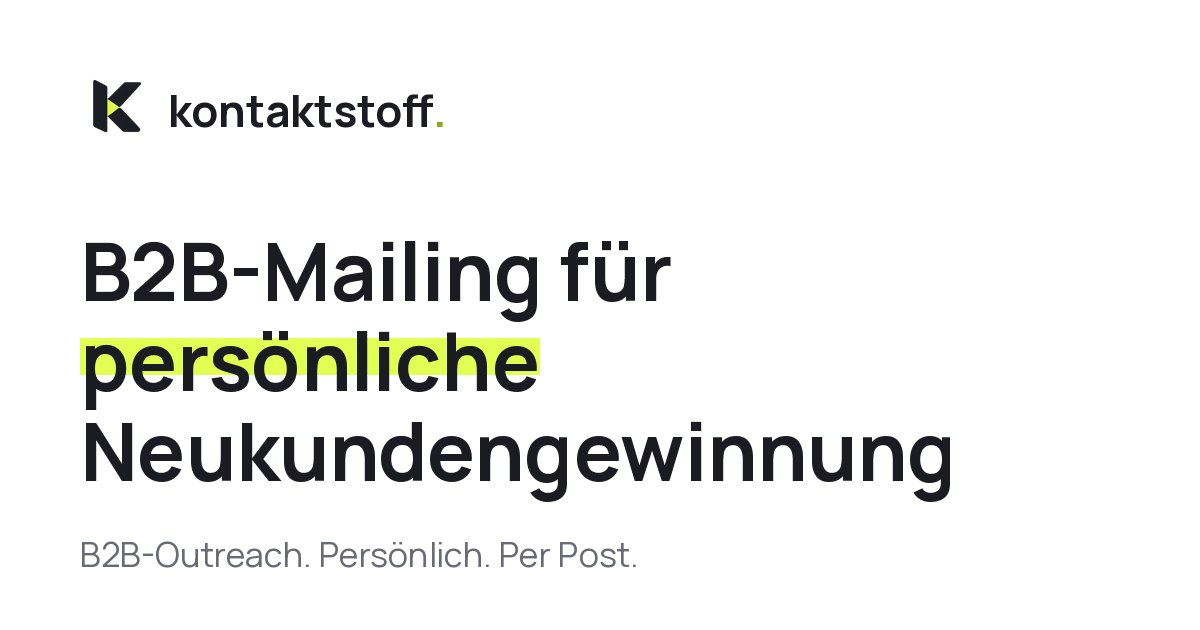
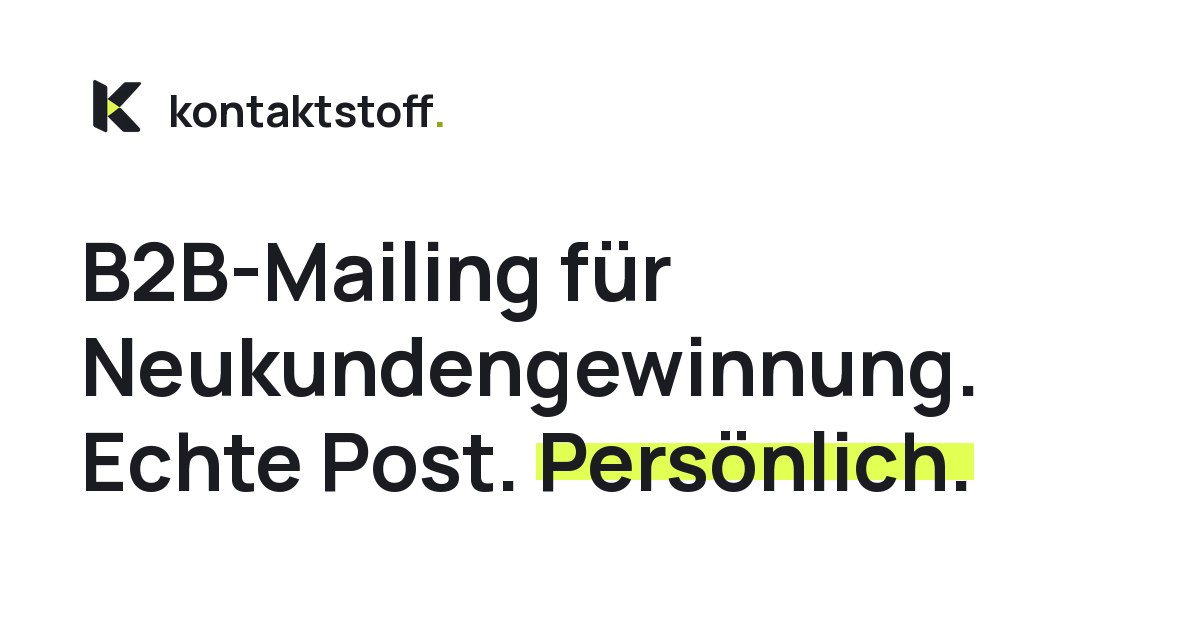
Hero-H1 dreizeilig: B2B-Mailing für / Neukundengewinnung. / Echte Post. Persönlich.
- H1 in drei Blockzeilen, "Persönlich." neongelb markiert
- Auf Mobilgeräten wird die H1 so skaliert, dass "Neukundengewinnung." ungetrennt in eine Zeile passt
- Social-Vorschaubild und Vorschau-Titel angepasst

Claude-Session: https://claude.ai/code/session_019yGR5dPRthh6YLbL3ibc2n

Changed region(s): [[0.0617, 0.5127, 0.8325, 0.8143], [0.0617, 0.8444, 0.5242, 0.9048]]

diff --git a/index.html b/index.html
@@ -10,11 +10,11 @@
 <meta content="Kontaktstoff" name="application-name"/>
 <meta content="website" property="og:type"/><meta content="Kontaktstoff" property="og:site_name"/><meta content="de_DE" property="og:locale"/>
 <meta content="https://www.kontaktstoff.com/" property="og:url"/>
-<meta content="B2B-Mailing für persönliche Neukundengewinnung | Kontaktstoff" property="og:title"/>
+<meta content="B2B-Mailing für Neukundengewinnung. Echte Post. Persönlich." property="og:title"/>
 <meta content="Personalisierter B2B-Erstkontakt per Post. Von der Wunschkundenliste bis zur messbaren Reaktion." property="og:description"/>
-<meta content="https://www.kontaktstoff.com/assets/og-image.jpg" property="og:image"/><meta content="1200" property="og:image:width"/><meta content="630" property="og:image:height"/><meta content="Kontaktstoff: B2B-Mailing für persönliche Neukundengewinnung" property="og:image:alt"/>
+<meta content="https://www.kontaktstoff.com/assets/og-image.jpg" property="og:image"/><meta content="1200" property="og:image:width"/><meta content="630" property="og:image:height"/><meta content="Kontaktstoff: B2B-Mailing für Neukundengewinnung. Echte Post. Persönlich." property="og:image:alt"/>
 <meta content="summary_large_image" name="twitter:card"/>
-<meta content="B2B-Mailing für persönliche Neukundengewinnung | Kontaktstoff" name="twitter:title"/>
+<meta content="B2B-Mailing für Neukundengewinnung. Echte Post. Persönlich." name="twitter:title"/>
 <meta content="Personalisierter B2B-Erstkontakt per Post. Von der Wunschkundenliste bis zur messbaren Reaktion." name="twitter:description"/>
 <meta content="https://www.kontaktstoff.com/assets/og-image.jpg" name="twitter:image"/>
 <link href="/favicon.ico" rel="icon" sizes="48x48"/><link href="/favicon.svg" rel="icon" type="image/svg+xml"/><link href="/apple-touch-icon.png" rel="apple-touch-icon"/><link href="/site.webmanifest" rel="manifest"/>
@@ -23,7 +23,7 @@
 </head>
 <body><a class="skip-link" href="#main">Zum Inhalt</a><div aria-hidden="true" class="scroll-progress"></div>
 <header class="site-header"><nav aria-label="Hauptnavigation" class="navigation container"><a aria-label="Kontaktstoff Startseite" class="wordmark" href="/"><img alt="" class="brand-mark" height="38" src="assets/logo-k-96.webp" width="38"/><span class="brand-type">kontaktstoff<span class="brand-dot">.</span></span></a><button aria-controls="nav-links" aria-expanded="false" class="menu-toggle">Menü <span aria-hidden="true">＋</span></button><div class="nav-links" id="nav-links"><a href="#plattform">Plattform</a><a href="#vorteil">Warum Post?</a><a href="#cases">Cases</a><a href="#preise">Preise</a></div><a class="button button-dark nav-cta" href="#planen">Kampagne planen <span aria-hidden="true">↗</span></a></nav></header>
-<main id="main"><section class="hero container"><h1>B2B-Mailing für <span class="highlight">persönliche</span> Neukunden&shy;gewinnung</h1><p class="hero-copy">Wir bringen deine B2B-Akquise als personalisierte Post direkt in die Unternehmen, die du gewinnen willst. Jeder Kontaktstoff führt mit QR-Code oder Kurzlink zum nächsten Schritt in deinem Vertrieb.</p><div aria-label="Ergebnisse der B2B Print-Mailing-Studie" class="hero-proof"><article><strong>935 %</strong><span>ROAS</span></article><article><strong>2,8 %</strong><span>Conversion Rate</span></article></div><div class="hero-actions"><a class="button button-lime" href="#planen">Meine Kampagne planen <span aria-hidden="true">↗</span></a><a class="button button-white" href="#plattform"><span aria-hidden="true" class="play-icon">▶</span> So funktioniert’s</a></div><p class="audience-line">Für Agenturen, Dienstleister, mittelständische Unternehmen und B2B-Vertriebsteams.</p></section><section class="contactstoff-definition"><div class="container definition-grid reveal"><div><p class="definition-label">Was ist Kontaktstoff?</p><h2>Der Brief, der deinen Erstkontakt macht.</h2><p>Persönlich adressiert. Hochwertig produziert. Direkt in das Unternehmen geschickt, das du gewinnen willst.</p></div><div aria-label="Ein persönlicher Brief mit dem Kontaktstoff K ist Kontaktstoff" class="definition-formula"><div class="definition-letter"><span aria-hidden="true" class="letter-icon">✉</span><img alt="" height="46" src="assets/logo-k-96.webp" width="46"/><small>persönlicher Brief</small></div><b aria-hidden="true">＝</b><strong>KONTAKTSTOFF</strong></div></div></section>
+<main id="main"><section class="hero container"><h1><span class="hero-line">B2B-Mailing für</span> <span class="hero-line">Neukundengewinnung.</span> <span class="hero-line">Echte Post. <span class="highlight">Persönlich.</span></span></h1><p class="hero-copy">Wir bringen deine B2B-Akquise als personalisierte Post direkt in die Unternehmen, die du gewinnen willst. Jeder Kontaktstoff führt mit QR-Code oder Kurzlink zum nächsten Schritt in deinem Vertrieb.</p><div aria-label="Ergebnisse der B2B Print-Mailing-Studie" class="hero-proof"><article><strong>935 %</strong><span>ROAS</span></article><article><strong>2,8 %</strong><span>Conversion Rate</span></article></div><div class="hero-actions"><a class="button button-lime" href="#planen">Meine Kampagne planen <span aria-hidden="true">↗</span></a><a class="button button-white" href="#plattform"><span aria-hidden="true" class="play-icon">▶</span> So funktioniert’s</a></div><p class="audience-line">Für Agenturen, Dienstleister, mittelständische Unternehmen und B2B-Vertriebsteams.</p></section><section class="contactstoff-definition"><div class="container definition-grid reveal"><div><p class="definition-label">Was ist Kontaktstoff?</p><h2>Der Brief, der deinen Erstkontakt macht.</h2><p>Persönlich adressiert. Hochwertig produziert. Direkt in das Unternehmen geschickt, das du gewinnen willst.</p></div><div aria-label="Ein persönlicher Brief mit dem Kontaktstoff K ist Kontaktstoff" class="definition-formula"><div class="definition-letter"><span aria-hidden="true" class="letter-icon">✉</span><img alt="" height="46" src="assets/logo-k-96.webp" width="46"/><small>persönlicher Brief</small></div><b aria-hidden="true">＝</b><strong>KONTAKTSTOFF</strong></div></div></section>
 <section class="section container benefit-section" id="vorteil"><div class="section-heading centered reveal"><h2>Deine E-Mail geht unter.<br/>Dein Anruf wird abgeblockt.<br/><span class="highlight-line">Dein Kontaktstoff kommt auf den Tisch.</span></h2><p>Beim digitalen Erstkontakt reicht eine Sekunde Ablenkung. Physische Post bleibt sichtbar, bis sie bewusst weggelegt wird.</p></div><div class="benefit-grid"><article class="benefit reveal"><div aria-hidden="true" class="benefit-icon">01</div><h3>Deine Kaltakquise steckt im Postfach fest. Schick sie per Post.</h3><p>Kein Spamordner. Keine übersehene Betreffzeile. Der Empfänger muss deinen Kontaktstoff physisch in die Hand nehmen und bewusst behalten oder entsorgen.</p></article><article class="benefit reveal"><div aria-hidden="true" class="benefit-icon">02</div><h3>Ein Pop-up reicht. Schon bist du vergessen.</h3><p>Der Tab ist zu. Das Telefon klingelt. Die LinkedIn-Nachricht rutscht nach unten. Dein Brief liegt weiter vor dem Empfänger und kann später wieder aufgenommen oder weitergegeben werden.</p></article><article class="benefit reveal"><div aria-hidden="true" class="benefit-icon">03</div><h3>Der nächste Schritt steht direkt auf der Karte.</h3><p>QR-Code oder Kurzlink führen genau dorthin, wo der Kontakt weitergeht. Zum Kalender, in den Chat, zur Potenzialanalyse, zum Video oder ins Kontaktformular.</p></article></div>
 <div aria-label="Kontaktstoff im Vergleich zu digitaler Kaltakquise" class="outreach-comparison reveal"><div class="comparison-standard"><h3>So schnell verschwindet digitale Kaltakquise.</h3><div class="alternative-row"><span aria-hidden="true" class="comparison-cross">×</span><div><strong>Kaltakquise per E-Mail</strong><p>Spamfilter. Voller Posteingang. Ein ungelesener Absender unter vielen.</p></div></div><div class="alternative-row"><span aria-hidden="true" class="comparison-cross">×</span><div><strong>Kaltakquise per Anruf</strong><p>Zentrale. Mailbox. Meeting. Ein falscher Moment reicht für das Nein.</p></div></div><div class="alternative-row"><span aria-hidden="true" class="comparison-cross">×</span><div><strong>LinkedIn</strong><p>Noch eine Kontaktanfrage. Noch eine Nachricht, die nach Kaltakquise aussieht.</p></div></div></div><div class="comparison-kontaktstoff"><div class="comparison-brand"><img alt="" height="34" src="assets/logo-k-96.webp" width="34"/><span>kontaktstoff.</span></div><h3>Kontaktstoff erreicht den Erstkontakt physisch.</h3><div class="contact-advantage"><span aria-hidden="true">✓</span><div><strong>Wird in die Hand genommen.</strong><p>Persönlich adressierte Post landet nicht im Spamordner und klingelt nicht im falschen Moment.</p></div></div><div class="contact-advantage"><span aria-hidden="true">✓</span><div><strong>Schindet Eindruck.</strong><p>Hochwertiges Papier, besondere Veredelung, ein Format, das beim Öffnen überrascht. Für den ersten Eindruck gibt es keine zweite Chance.</p></div></div><div class="contact-advantage"><span aria-hidden="true">✓</span><div><strong>Macht den nächsten Schritt leicht.</strong><p>Ein Scan führt direkt zum gewünschten Einstieg in deinen Vertrieb.</p></div></div></div></div></section><section class="container dashboard-section" id="dashboard"><div class="section-heading centered reveal"><h2>Sieh, welche Post<br/>dir <span class="highlight-line">Kunden</span> bringt.</h2><p>Versendet. Im Gespräch. Kunde geworden. Du siehst, wo jeder Kontakt steht. Du siehst auch, was deine Kampagne einbringt.</p></div><div class="dashboard-preview reveal"><div class="preview-top"><span><span aria-hidden="true" class="mini-mark">k</span> Dein Vertrieb. Eine Übersicht.</span><button class="text-button" data-open-dashboard="">Ansicht vergrößern ↗</button></div><button aria-label="Beispiel-Dashboard vergrößern" class="dashboard-image-button" data-open-dashboard=""><img alt="Beispiel-Dashboard: 300 Mailings, 27 Gespräche, 4 neue Kunden und 433 Prozent Kampagnen-ROI. Darunter Verlauf, Vertriebstrichter und Kontaktstatus." height="870" loading="lazy" decoding="async" src="assets/dashboard-konzept.webp" width="1440"/></button><div class="preview-caption"><span>Deine Kontakte. Deine Gespräche. Deine Ergebnisse.</span><a href="#plattform">Vom Lead bis zum Abschluss ↓</a></div></div></section>
 <section class="platform-section section" id="plattform"><div class="container"><div class="section-heading centered reveal"><h2>Fünf Schritte vom Zielkontakt<br/>zum neuen Kunden.</h2><p>Leadliste, Personalisierung, Versand, Reaktion und Ergebnis in einem Ablauf.</p></div><div class="workflow-scroll"><div class="workflow reveal"><div aria-label="Kampagnenablauf" aria-orientation="vertical" class="workflow-menu" role="tablist">

diff --git a/style.css b/style.css
@@ -85,3 +85,5 @@ dialog{border:1px solid var(--line);border-radius:24px;padding:36px;color:var(--
 @media(max-width:580px){.hero{padding-bottom:46px}.hero-proof{gap:34px;margin-top:28px}.hero-proof article{min-height:0;padding:0;align-items:center;justify-items:center}.hero-proof strong{font-size:2.2rem}.hero-proof span{font-size:.68rem}.hero-actions{margin-top:26px}.definition-formula{grid-template-columns:1fr;gap:15px}.definition-formula>b{transform:none}.definition-letter,.definition-formula>strong{min-height:132px}.definition-formula .definition-letter .letter-icon{font-size:4.4rem}.destination-grid article{min-height:205px}.destination-icon{width:50px;height:50px;margin-bottom:28px}.destination-icon svg{width:30px;height:30px}}
 .upload-motion b{font-weight:700}
 @media(prefers-reduced-motion:reduce){.upload-motion span{transform:scaleX(1)}.fulfillment li>span,.fulfillment li:last-child>span{background:var(--lime);color:var(--ink);box-shadow:none;transform:none}}
+.hero-line{display:block}
+@media(max-width:580px){.hero h1{font-size:min(clamp(2.65rem,10.4vw,3.55rem),calc((100vw - 40px)/10.6))}}

diff --git a/README.md b/README.md
@@ -6,7 +6,7 @@ Statische, interaktive Landingpage für personalisierte B2B-Postkampagnen: vom W
 
 - Weiß, Graphit und Neongelb; Manrope in 400 und 700, lokal unter SIL Open Font License.
 - Direkter Hero ohne Eyebrow, klare Größenhierarchie, großzügige Software-UI und reduzierte Scroll-Reveals mit Reduced-Motion-Unterstützung.
-- Die H1 lautet „B2B-Mailing für persönliche Neukundengewinnung“. Der Hero belegt den ersten Viewport und zeigt als Studienwerte nur 935 % ROAS und 2,8 % Conversion Rate. Danach erklärt ein Briefsymbol Kontaktstoff als physischen B2B-Erstkontakt.
+- Die H1 steht in drei Zeilen: „B2B-Mailing für / Neukundengewinnung. / Echte Post. Persönlich.“ Auf kleinen Bildschirmen wird die Schrift so skaliert, dass „Neukundengewinnung.“ ungetrennt in eine Zeile passt. Der Hero belegt den ersten Viewport und zeigt als Studienwerte nur 935 % ROAS und 2,8 % Conversion Rate. Danach erklärt ein Briefsymbol Kontaktstoff als physischen B2B-Erstkontakt.
 - Der Nutzen und der offen sichtbare Vergleich mit Kaltakquise per E-Mail, Anruf und LinkedIn stehen vor dem detaillierten Dashboard. Große vertikale Abstände trennen die Abschnitte.
 - Die ausgewählte Logoidee 02, das Material-K, steht links neben der Wortmarke. Alle zehn Richtungen bleiben unter `dist/logo-ideen/` vergleichbar.
 
